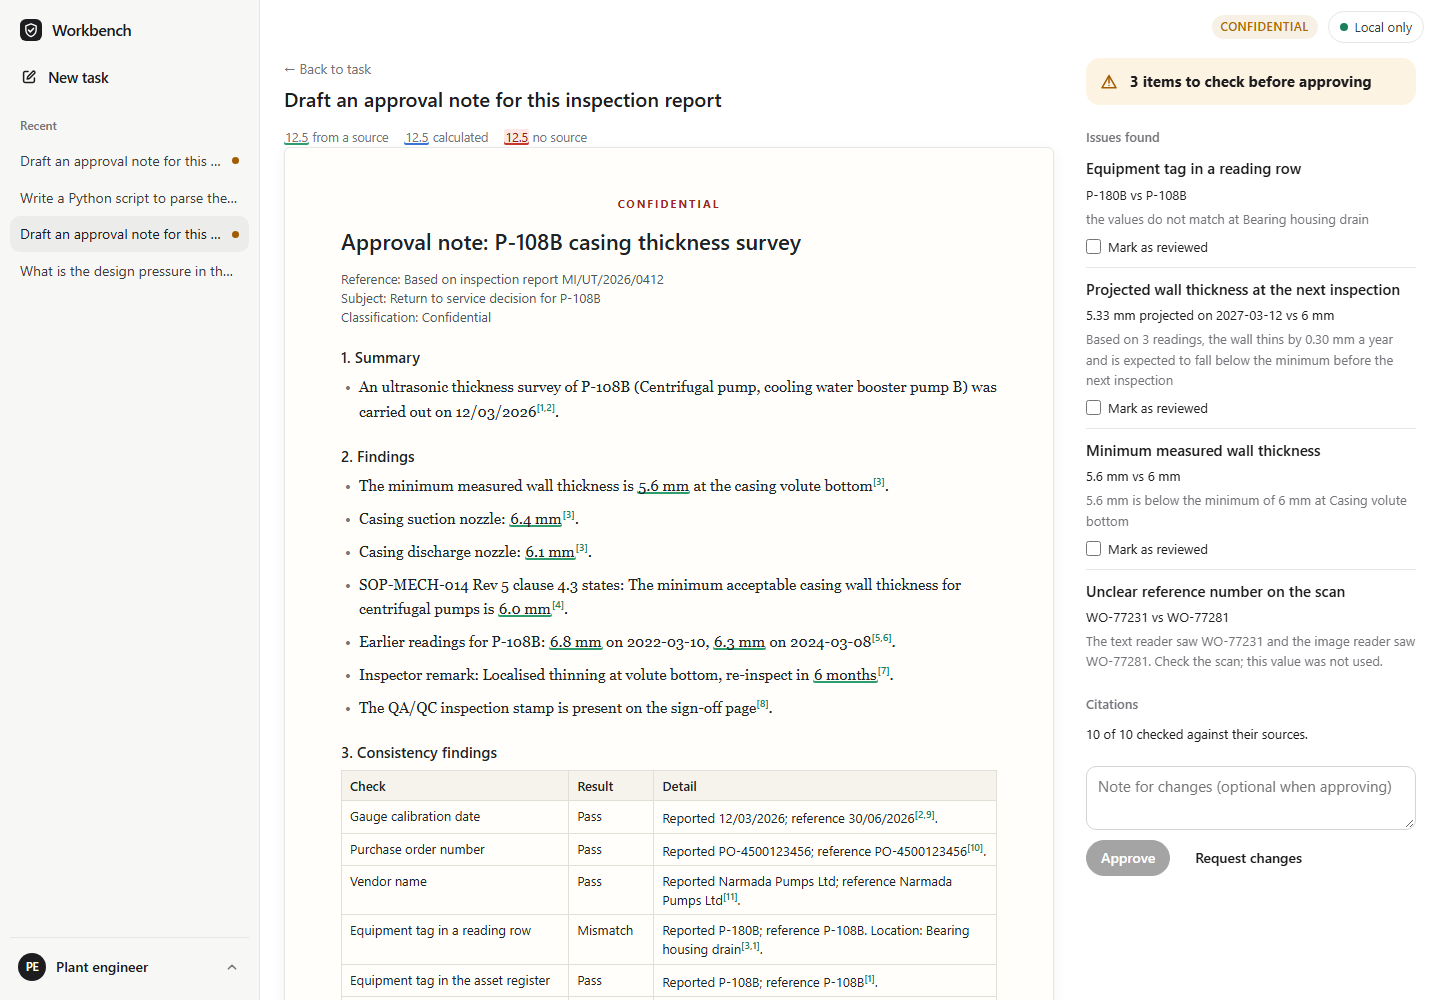
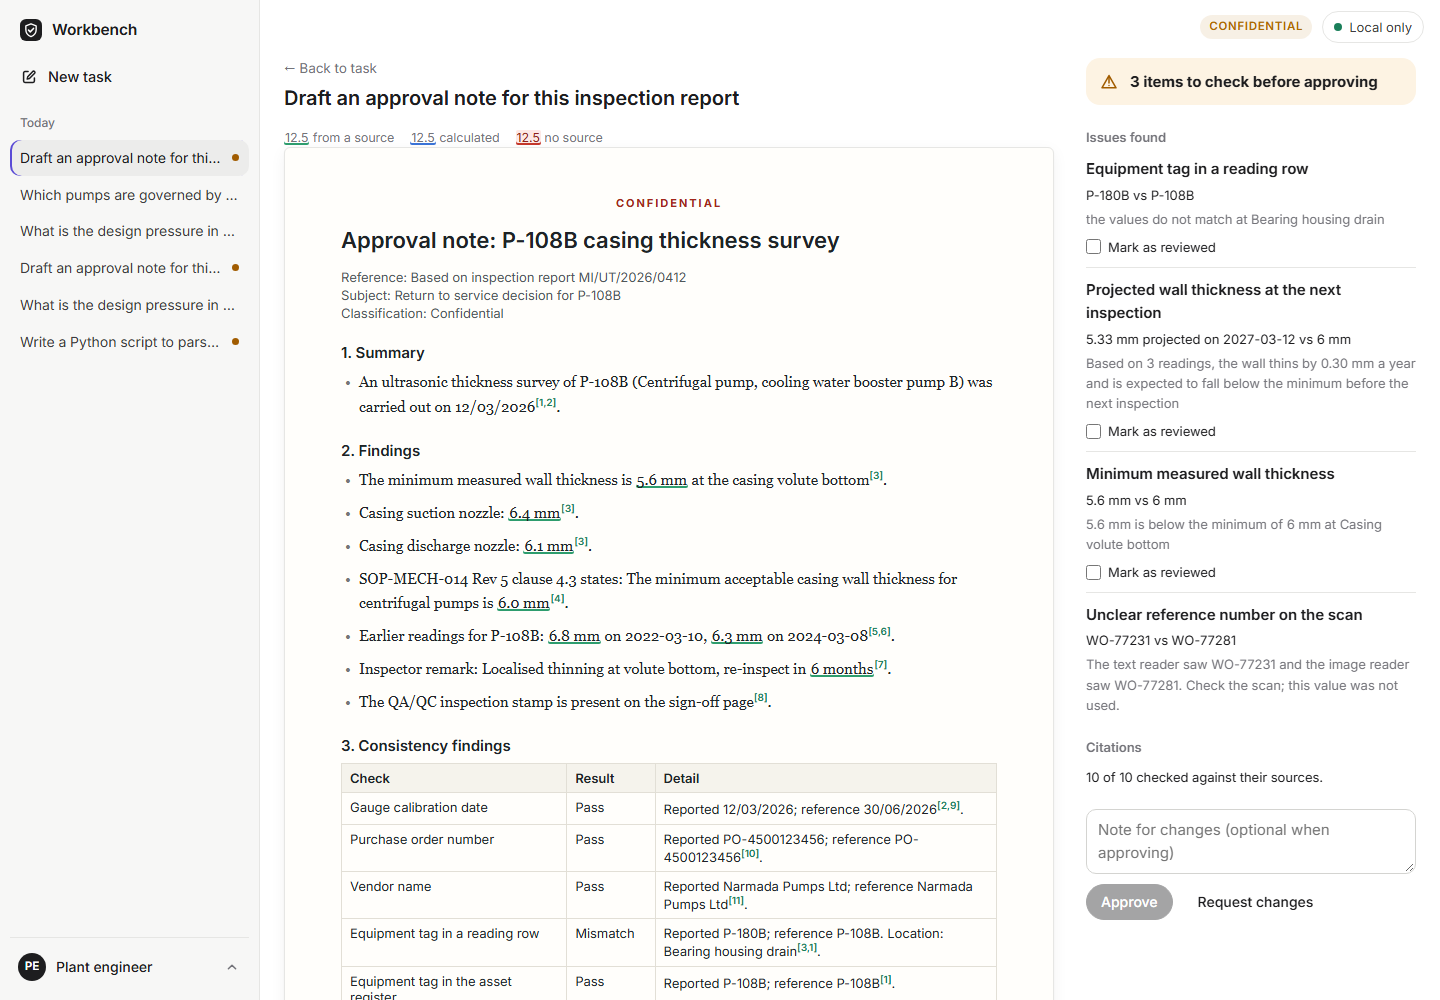
Record the font and change-detection decisions and refresh screenshots

diff --git a/docs/DECISIONS.md b/docs/DECISIONS.md
@@ -36,6 +36,8 @@ The implementation follows [`design/IMPLEMENTATION_PRD.md`](design/IMPLEMENTATIO
 | D28 | Agent | Read-only questions start without a plan approval |
 | D29 | Agent | Approving a plan covers its new drafts |
 | D30 | Files | Drafts and final files live in a folder per task |
+| D31 | UI | Inter is bundled as a local font |
+| D32 | API | Tasks carry a revision counter for change detection |
 
 ---
 
@@ -196,3 +198,13 @@ The implementation follows [`design/IMPLEMENTATION_PRD.md`](design/IMPLEMENTATIO
 
 **Decision:** `drafts/<task id>/` and `final/<task id>/` replace the flat `drafts/` and `final/` folders.
 **Why:** With flat folders, two tasks rendering `approval-note.docx` overwrote each other's drafts. Per-task folders make every first render a new file, which is also what makes D29 safe. Code: `workbench/workspace.py::write_draft`.
+
+### D31. Inter is bundled as a local font
+
+**Decision:** The UI ships the Latin subset of the Inter variable font (`workbench/ui/static/fonts/inter-latin.woff2`, 48 KB) with its SIL Open Font License (`OFL.txt` next to it), and falls back to the system font stack.
+**Why:** The workbench cannot load web fonts from the internet, and system fonts differ widely between the Windows and Linux machines that open it. The Content-Security-Policy still allows only same-origin assets.
+
+### D32. A revision counter for change detection
+
+**Decision:** Every task carries `revision_no`, which increases on every save (the store takes the highest known value, so a stale copy saved later still moves it forward). The UI redraws when it changes.
+**Why:** `updated_at` has one-second resolution. A task that moved through several steps within the same second looked unchanged to the page, which then stayed on "working" until it was reloaded. Code: `workbench/agent/state.py::TaskStore.save`.
